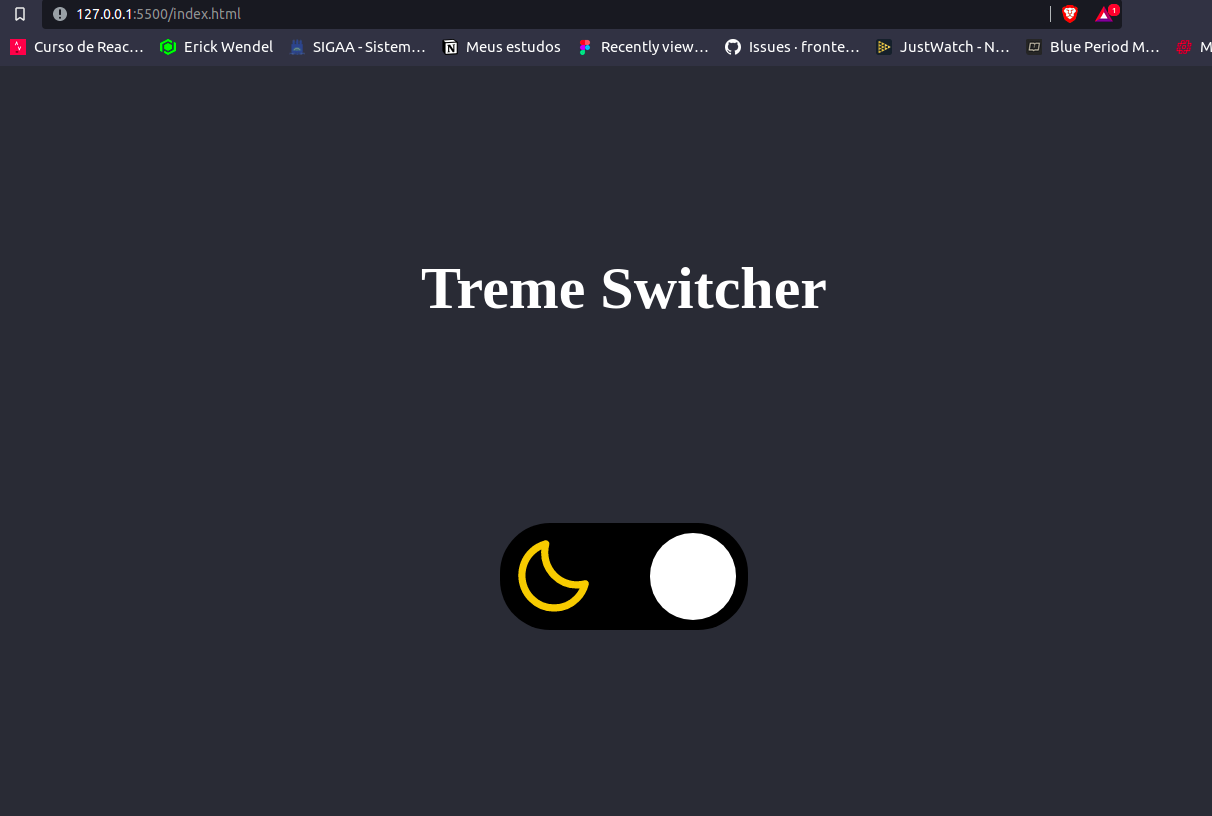
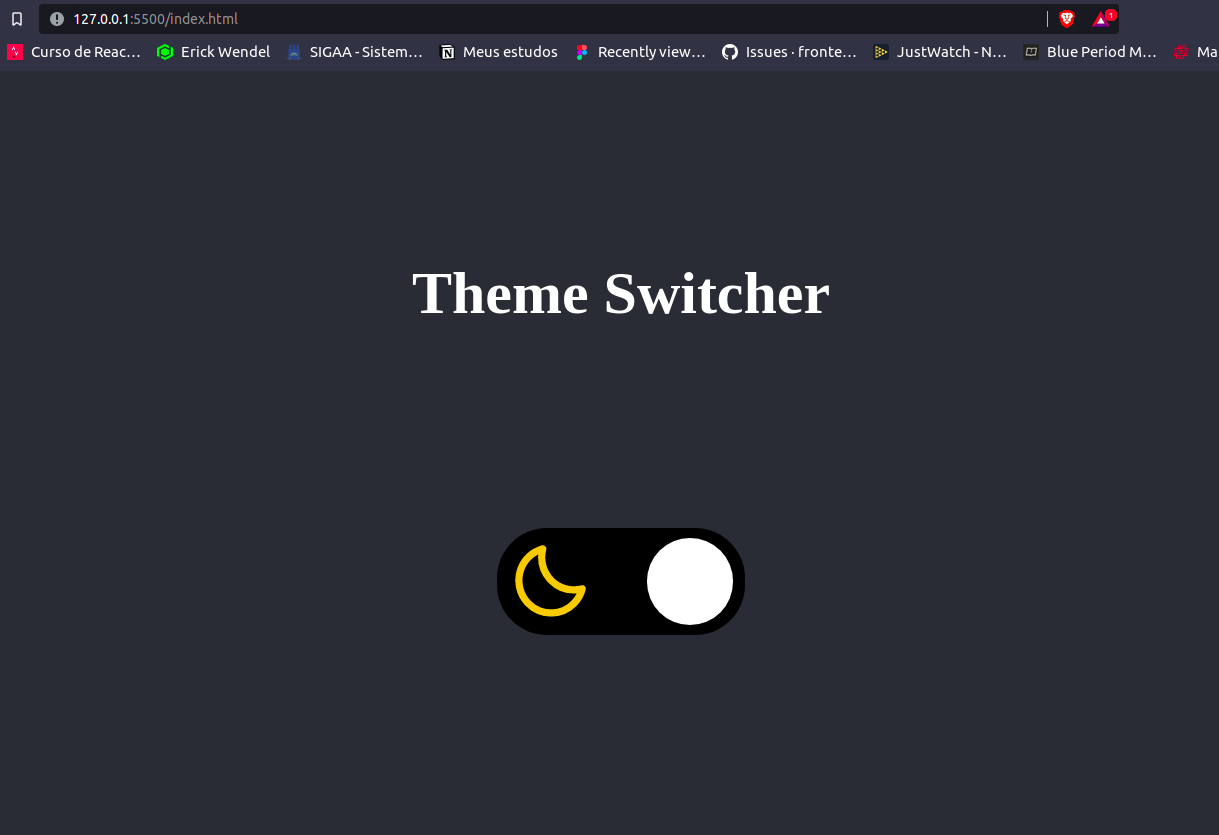
Update project

Changed region(s): [[0.0, 0.0, 1.0, 0.0919], [0.3969, 0.6127, 0.6411, 0.7966], [0.3358, 0.3064, 0.7021, 0.3983]]

diff --git a/index.html b/index.html
@@ -8,7 +8,7 @@
     <title>Theme Switcher</title>
   </head>
   <body>
-    <h1>Treme Switcher</h1>
+    <h1>Theme Switcher</h1>
 
     <div class="container background-div">
       <div class="moon">
